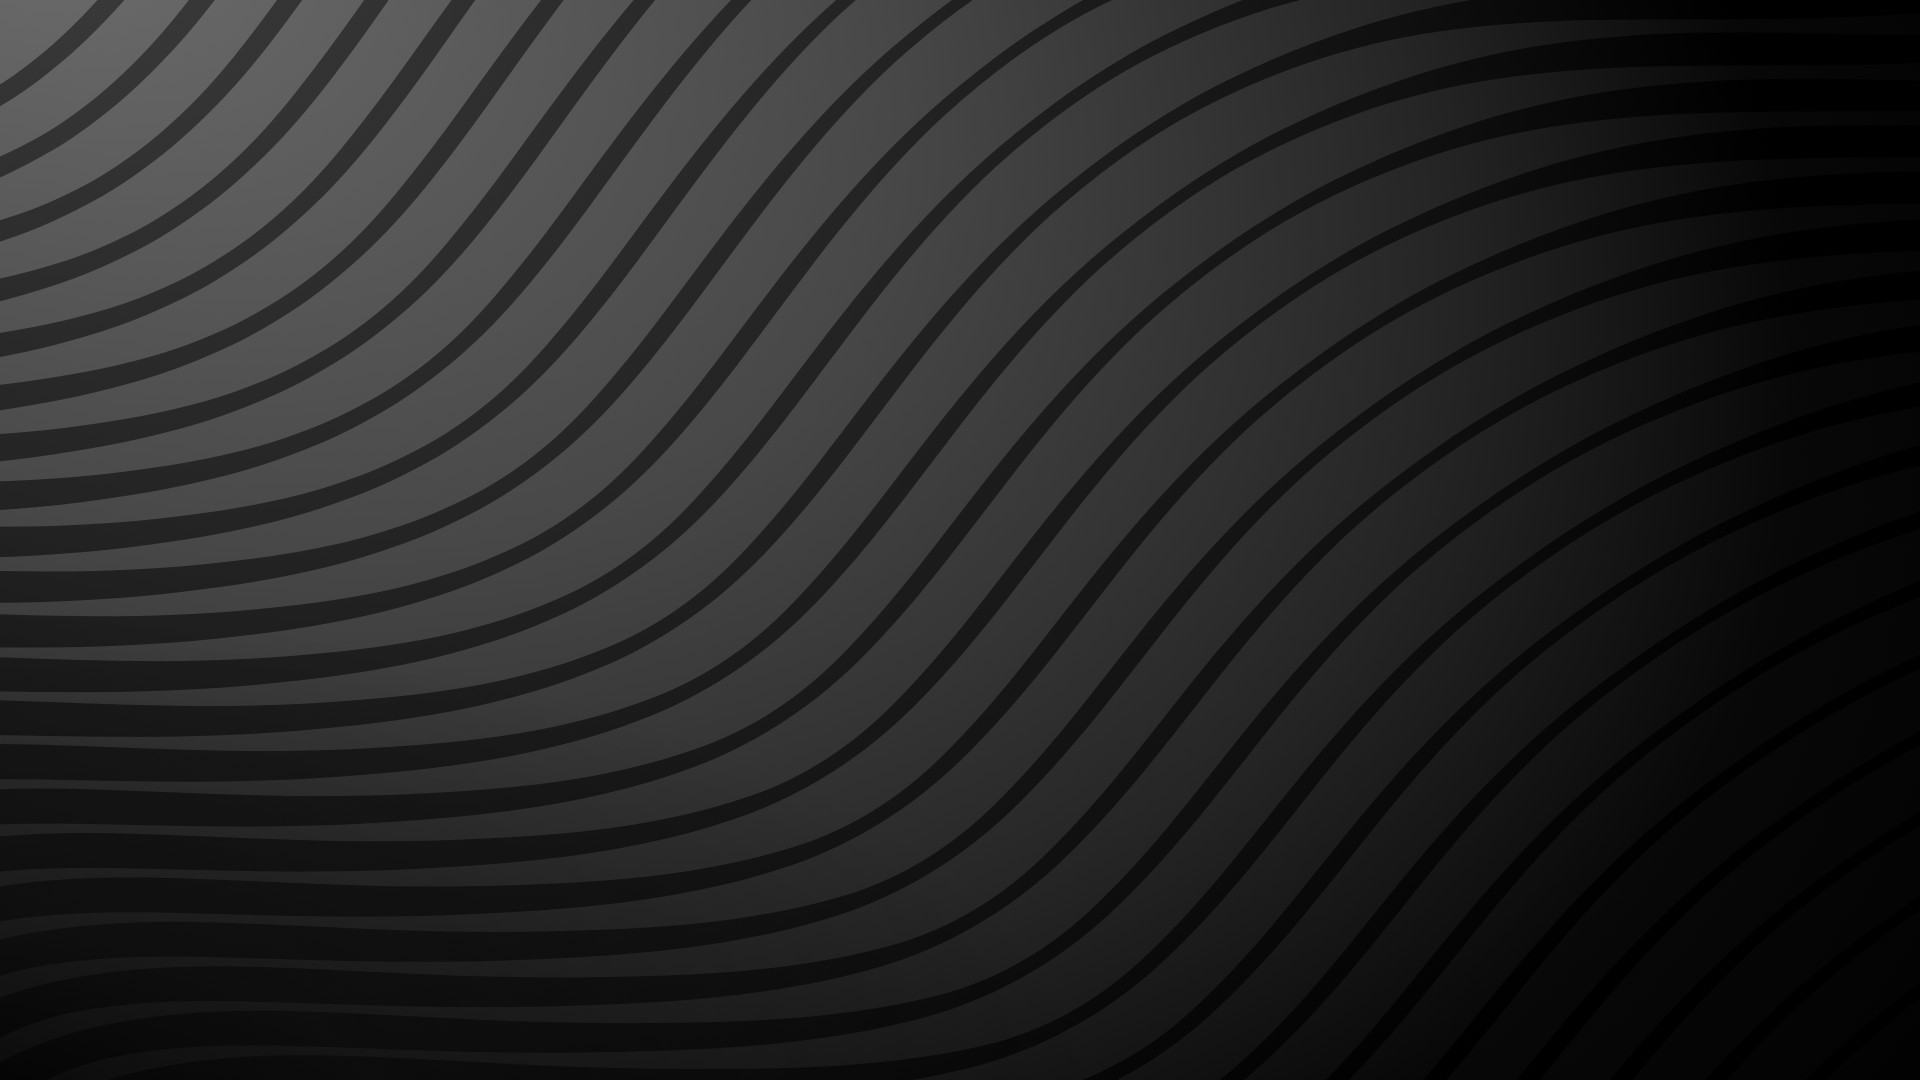
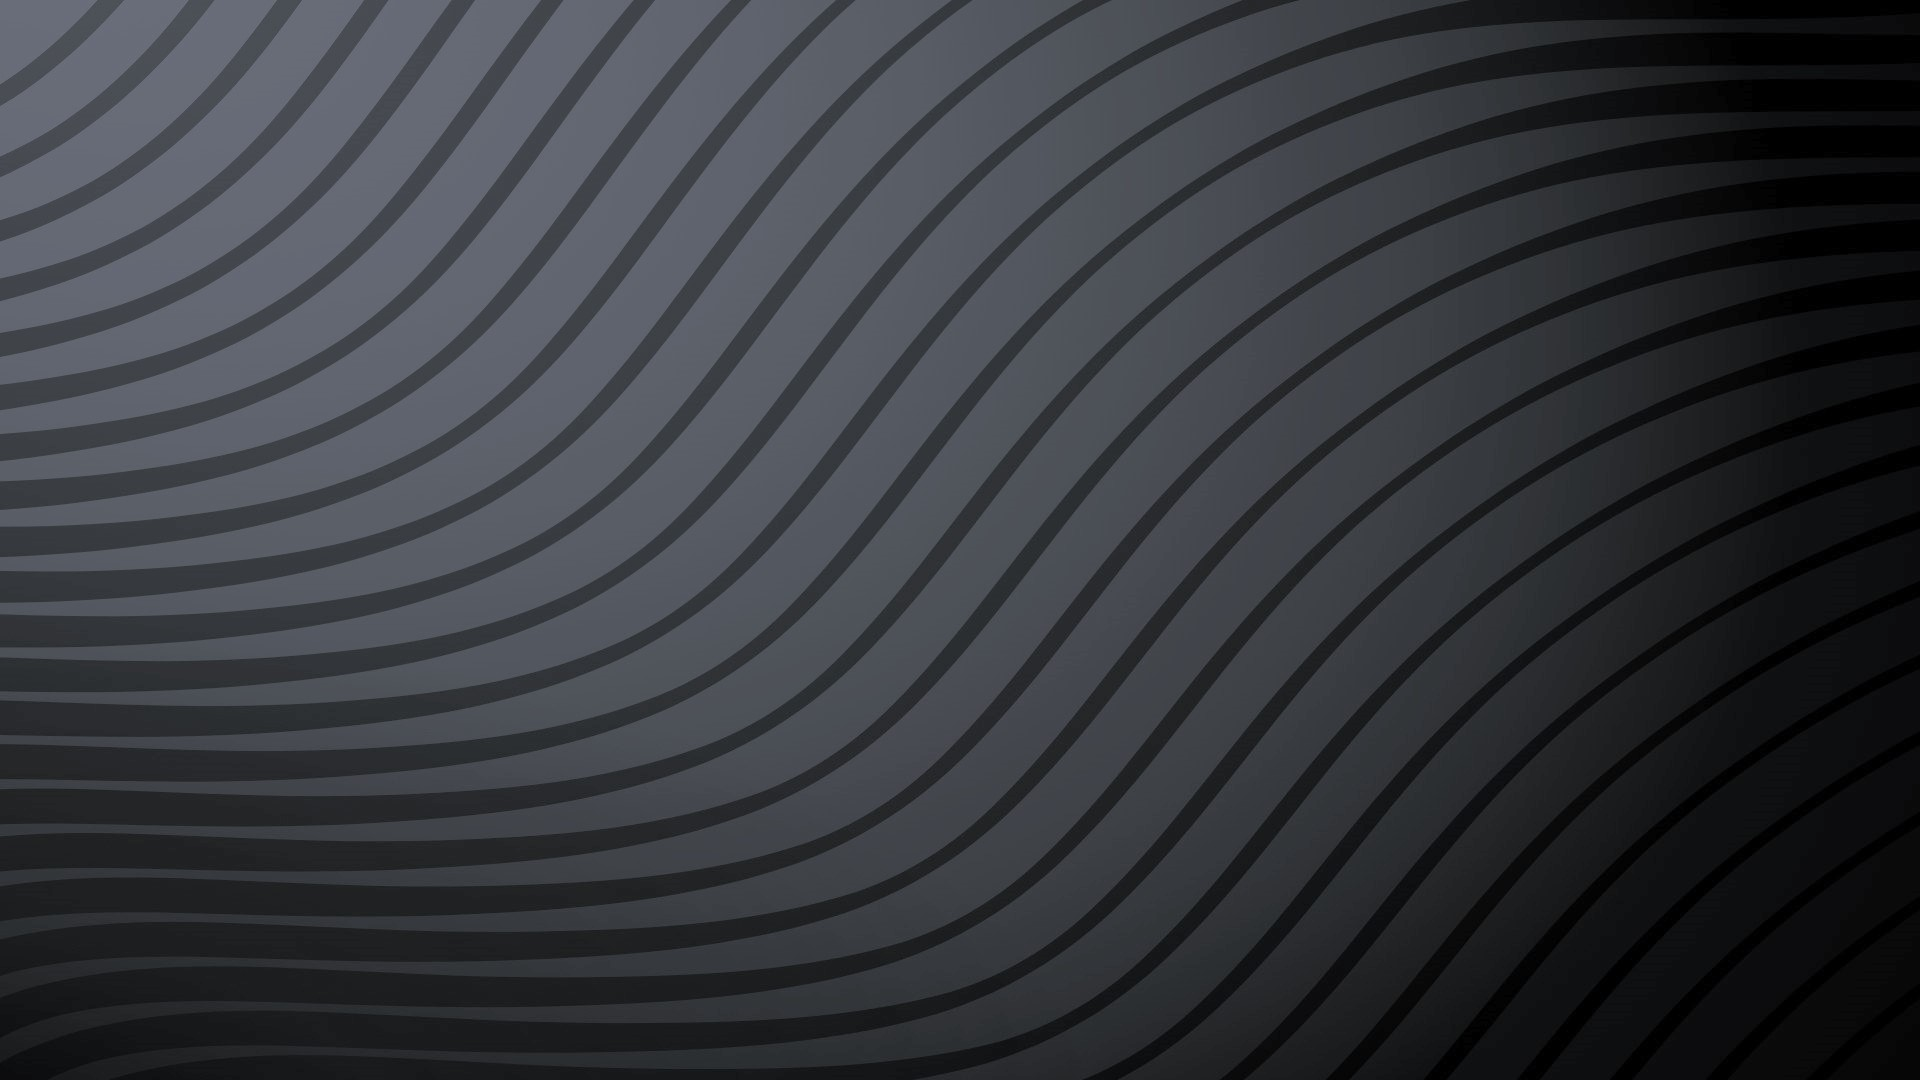
..

diff --git a/styles/styles.css b/styles/styles.css
@@ -1,15 +1,33 @@
 body{
-    background: url('/images/background-black.jpg') rgba(65, 131, 51, 0.377); 
+    background: url('/img/background-black.jpg') rgba(64, 131, 51, 0.014); 
     background-blend-mode: multiply;
     background-position: center;
     background-size: cover;
     background-repeat: no-repeat;
     
     }
+    .navbar-brand{
+        color: whitesmoke;
+        font-size: 2rem;
+    }
     .navbar{
         
-        background:transparent;
-        /* backdrop-filter: blur(10px); */
-    
+        color:aqua;
+        /* background-color: rgba(0, 255, 242, 0.507); */
+
+        /* background-blend-mode:darken; */
+        
     }
-    
+    .navbar-toggler-icon{
+        
+        color: aquamarine;
+    }
+    .sidebar{
+        background-color: rgba(255, 0, 0, 0.25) !important;
+        backdrop-filter: blur(1px);
+        
+    }
+    .offcanvas-header{
+        color: whitesmoke;
+        border-bottom:red;
+    }

diff --git a/index.php b/index.php
@@ -1,5 +1,5 @@
 <!DOCTYPE html>
-<html lang="es" data-bs-theme="dark">
+<html lang="es" >
 
 <head>
     <meta charset="UTF-8">
@@ -14,25 +14,35 @@
 
 <body class="vh-100 overflow-hidden">
     <!-- Navbar -->
-    <nav class="navbar navbar-expand-lg fixed-top">
+    <nav class="navbar navbar-expand-lg fixed-top bg-transparent">
         <div class="container">
             <!-- Logo -->
-            <a class="navbar-brand fs-4" href="#">Marquez Comunicaciones</a>
+            <a class="navbar-brand " href="#">Marquez Comunicaciones</a>
             <img src="" alt="" width="" height="" alt="">
-            
+
             <!-- Toggle Button -->
-             
-            <button class="navbar-toggler shadow-none border-0" type="button"
+
+            <button class="navbar-toggler  border-0" type="button"
                 data-bs-toggle="offcanvas"
                 data-bs-target="#offcanvasNavbar"
                 aria-controls="offcanvasNavbar">
                 <span class="navbar-toggler-icon"></span>
             </button>
             <!-- Sidebar -->
-            <div class="sidebar offcanvas offcanvas-start" tabindex="-1" id="offcanvasNavbar" aria-labelledby="offcanvasNavbarLabel">
-                <div class="offcanvas-header">
-                    <h5 class="offcanvas-title" id="offcanvasNavbarLabel">Offcanvas</h5>
-                    <button type="button" class="btn-close" data-bs-dismiss="offcanvas" aria-label="Close"></button>
+            <div class="sidebar offcanvas offcanvas-start"
+                tabindex="-1"
+                id="offcanvasNavbar"
+                aria-labelledby="offcanvasNavbarLabel">
+                <!-- Sidebar Header -->
+                <div class="offcanvas-header  border-bottom">
+                    <h5 class="offcanvas-title"
+                        id="offcanvasNavbarLabel">Menú</h5>
+                    <button
+                        type="button"
+                        class="btn-close btn-close-white"
+                        data-bs-dismiss="offcanvas"
+                        aria-label="Close">
+                    </button>
                 </div>
                 <div class="offcanvas-body">
                     <ul class="navbar-nav justify-content-end flex-grow-1 pe-3">
